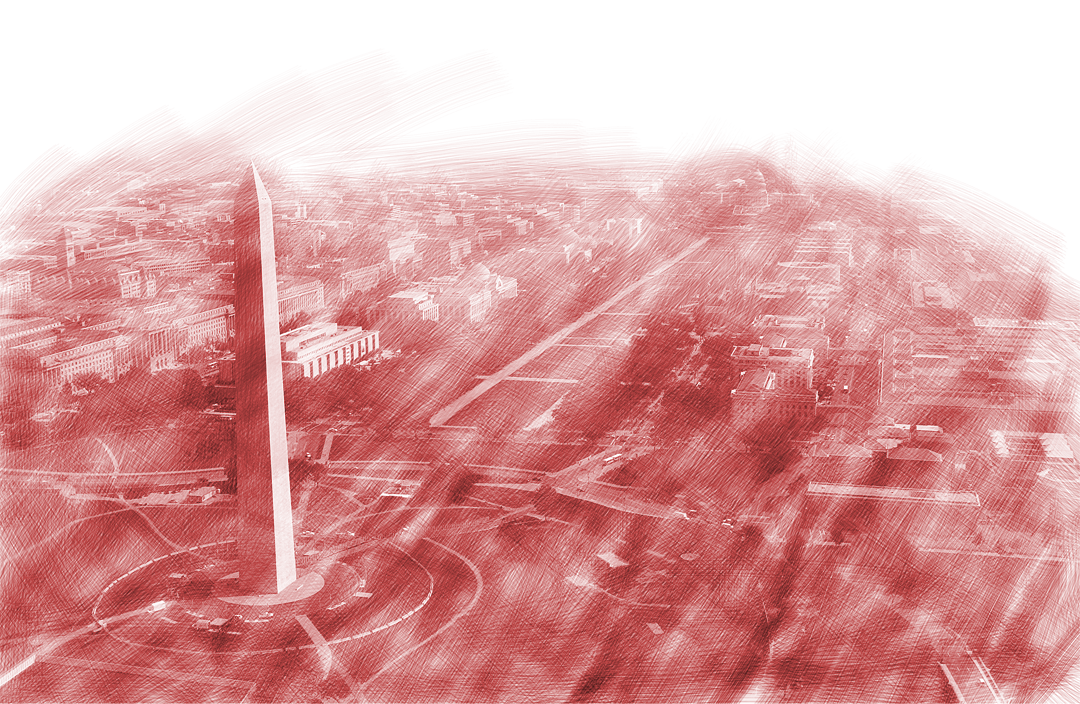
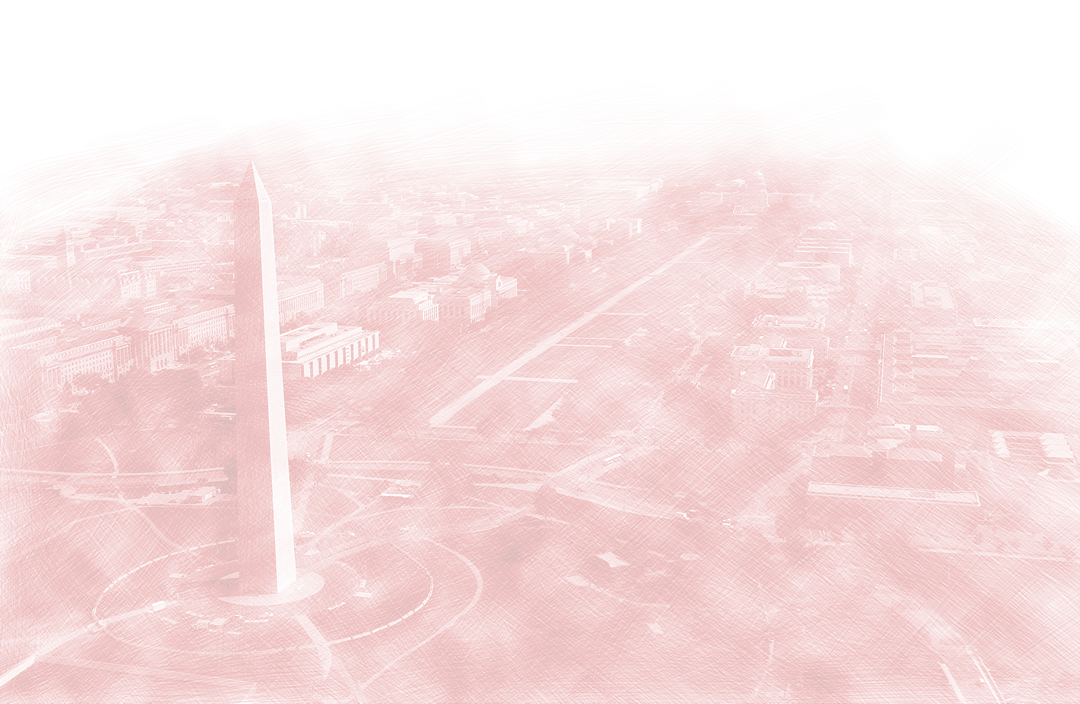
changed up background img to be fainter

diff --git a/politics/templates/vprop.html b/politics/templates/vprop.html
@@ -3,7 +3,7 @@
 {% block content %}
   <div id='vprop'>
     <div id='vpropcontent'>
-      <div id='perma' class='z-index-1'>
+      <div id='perma'>
         <h1>The Glass Capitol</h1>
         <h3>The way we interact with our politicians and media is about to change forever. Its time our politics entered the new digital age.</h3>
       </div>
@@ -22,7 +22,7 @@
     #vpropcontent{position:relative;min-height:calc(100vh - 70px);max-height:65vw;padding-top:70px;background-image: url("/images/basearial.png");background-size:100%;background-position:center;background-repeat:no-repeat;}
     #colorizer{position:absolute;top:0;left:0;width:100%;height:95vh;background:#0E1C32;opacity:.0;}
     #construction{padding:10px;background:yellow;font-size:150%;color:black;font-weight:bold;border-top:dashed black 5px;border-bottom:dashed black 5px;}
-    #perma{width:calc(50% - 40px);background:white;padding:20px;opacity:.7;}
+    #perma{width:calc(50% - 40px)padding:20px;}
     h1{font-size:450%;font-weight:bold;}
     h3{color:#ff3333;}
     #logo img{height:100px;}
